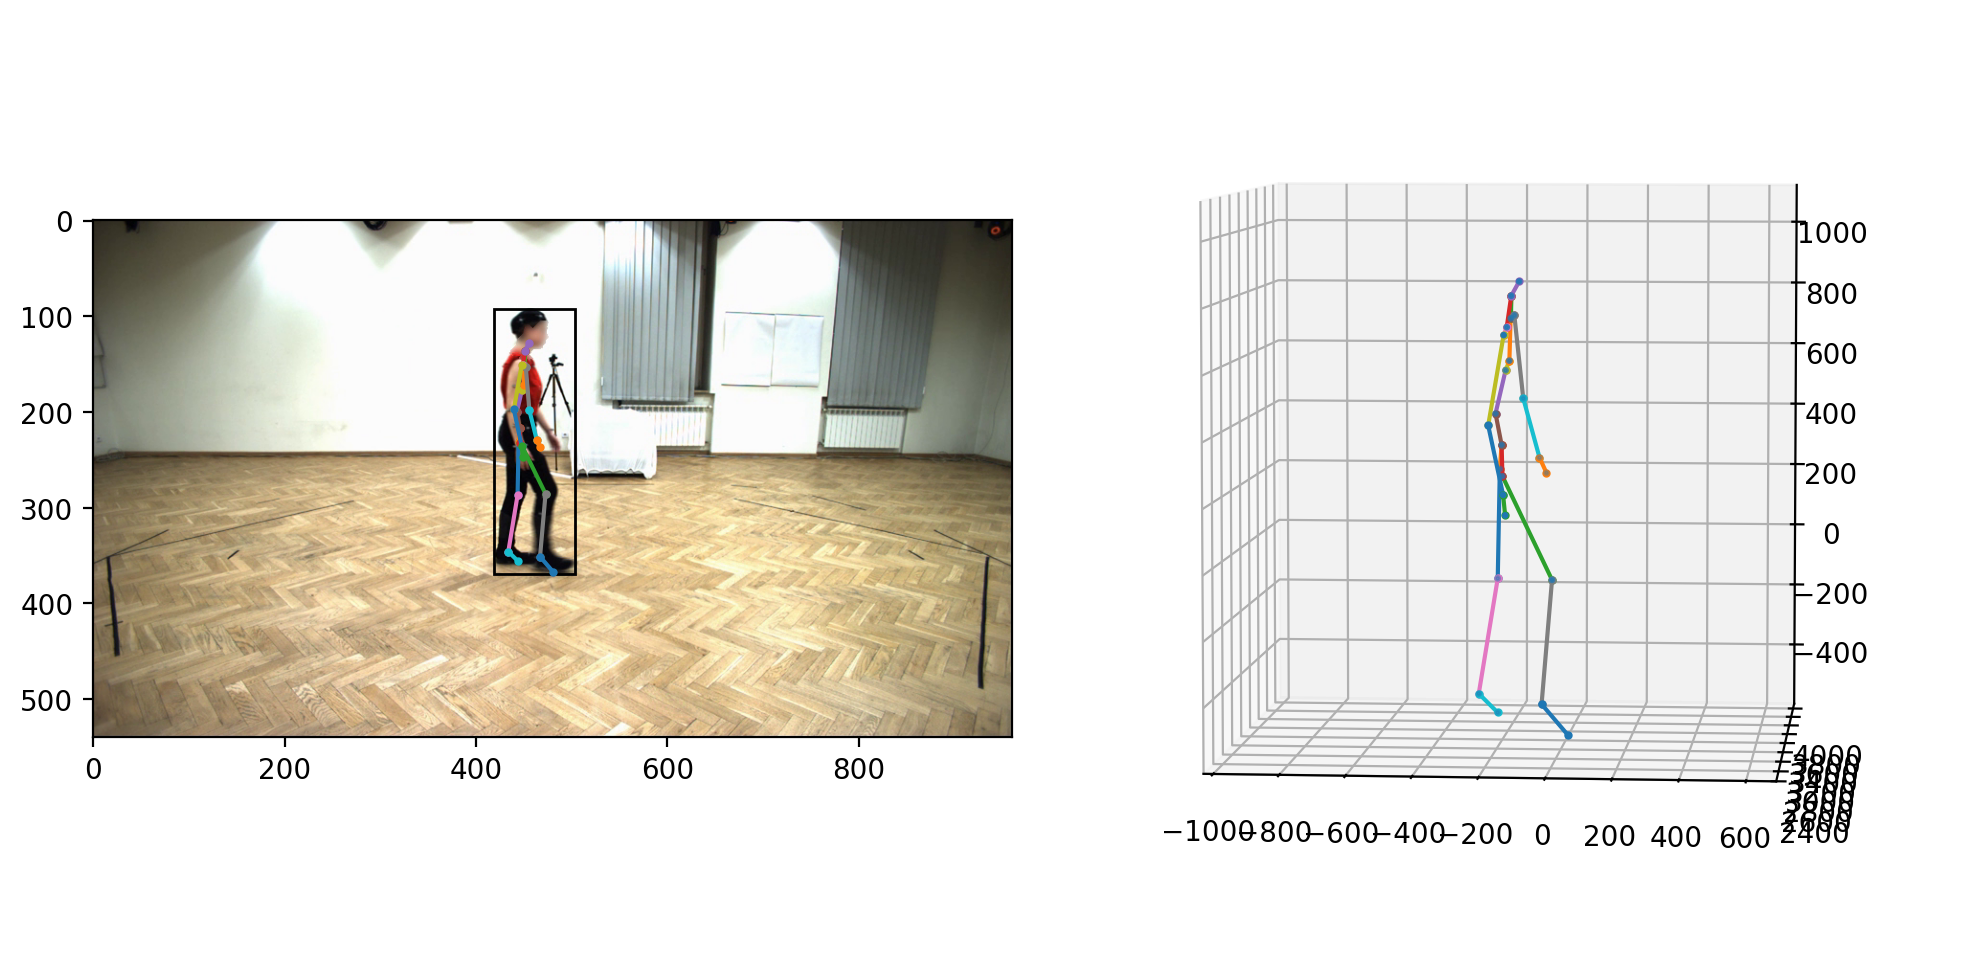
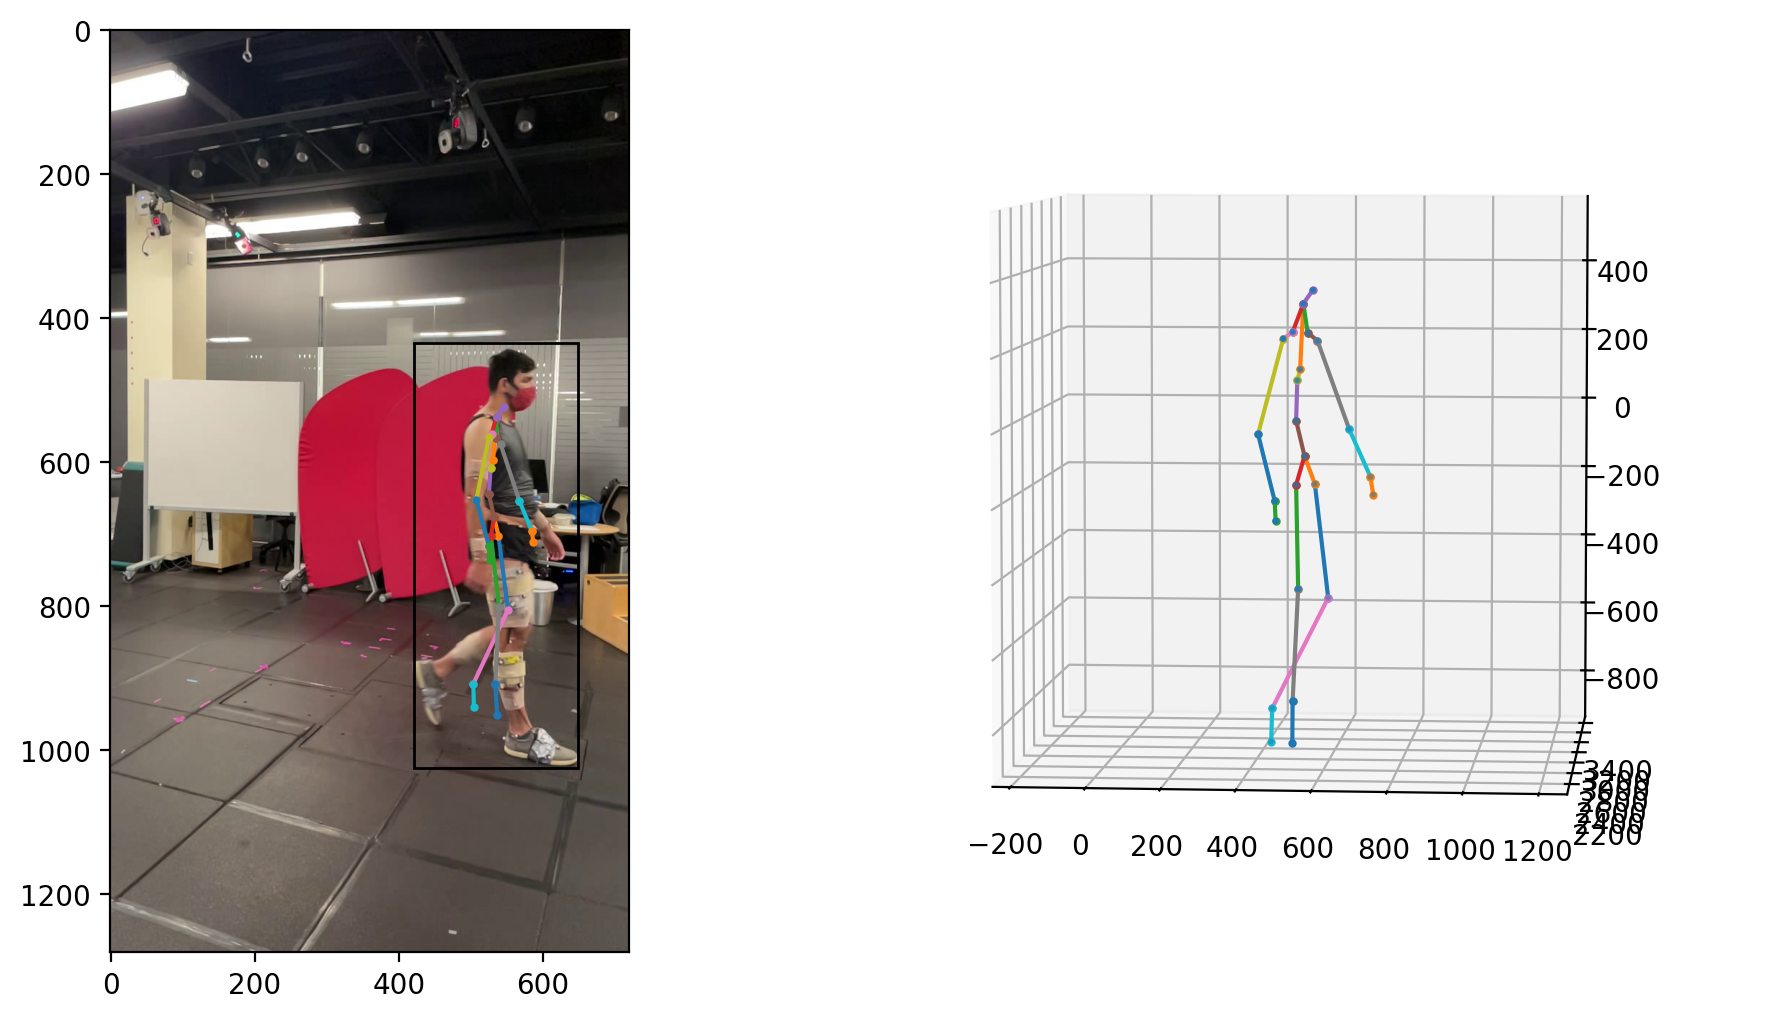
metrabs upgrades

diff --git a/src/visualizations/viz_metrabs.py b/src/visualizations/viz_metrabs.py
@@ -90,59 +90,47 @@ def load_calibration_tsai(xml_path, img_w, img_h):
     T[:3, 3] = t.astype(np.float32)
     return K, dist, T
 
-def load_calibration_pickle(pkl_path, img_w, img_h,
-                            rot_is_world_to_cam=True,
-                            units='mm'):
-    """
-    pkl contains:
-      - 'intrinsicMat': (3,3)
-      - 'distortion'  : (1,5)
-      - 'imageSize'   : (2,1) [width, height]
-      - 'rotation'    : (3,3)
-      - 'translation' : (3,1)
-    Returns K (3x3), dist (5,), T (4x4) in float32.
-    T maps world->camera: X_cam = R * X_world + t
-    Scales K if image size differs from current (img_w,img_h).
-    """
+def load_calibration_pickle(pkl_path,
+                                   img_w, img_h,
+                                   resize_mode="scale",
+                                   rotation_90=None,  # None | 'ccw' | 'cw'
+                                   dist_layout="opencv"  # 'opencv'=[k1,k2,p1,p2,k3], 'k123p12'=[k1,k2,k3,p1,p2]
+                                   ):
     with open(pkl_path, 'rb') as f:
         calib = pickle.load(f)
 
     K0   = np.asarray(calib['intrinsicMat'], dtype=np.float64)
     dist = np.asarray(calib['distortion'],   dtype=np.float64).reshape(-1)
-    size = np.asarray(calib['imageSize'],    dtype=np.float64).reshape(-1)
+    size = np.asarray(calib['imageSize'],    dtype=np.float64).reshape(-1)  # [W0,H0]
     R    = np.asarray(calib['rotation'],     dtype=np.float64)
     t    = np.asarray(calib['translation'],  dtype=np.float64).reshape(3)
 
-    # Units
-    if units.lower().startswith('m'):  # meters -> millimetres
-        t = t * 1000.0
+    # Keep as world->camera (this matches your working XML math)
+    # Camera center if you ever need it:
+    C = -R.T @ t
 
-    # If rotation is cam->world, invert to world->cam
-    if not rot_is_world_to_cam:
-        # X_world = R * X_cam + t  ->  X_cam = R^T X_world - R^T t
-        R = R.T
-        t = -R @ t
-
-    # Scale intrinsics if image size differs
-    # size = [width, height]
+    # Intrinsics adjustment to your current frame size
     W0, H0 = int(round(size[0])), int(round(size[1]))
-    if (W0 != img_w) or (H0 != img_h):
-        sx = img_w / float(W0)
-        sy = img_h / float(H0)
-        K_scaled = np.array([[K0[0,0]*sx, 0.0,        K0[0,2]*sx],
-                             [0.0,        K0[1,1]*sy, K0[1,2]*sy],
-                             [0.0,        0.0,        1.0      ]], dtype=np.float64)
-    else:
-        K_scaled = K0
+    #K = adjust_K_for_resize(K0, (W0,H0), (img_w,img_h), mode=resize_mode)
 
-    # Pack outputs
-    K_out   = K_scaled.astype(np.float32)
-    dist_out= dist.astype(np.float32)
-    T       = np.eye(4, dtype=np.float32)
-    T[:3,:3]= R.astype(np.float32)
-    T[:3, 3]= t.astype(np.float32)
-    return K_out, dist_out, T
+    # Optional 90° rotation handling (if your runtime frames are rotated)
+    #if rotation_90 in ("ccw","cw"):
+    #    K, (img_w,img_h) = rotate_K_90(K, (img_w,img_h), rotation_90)
+        # Note: R and t are in world/cam coordinates; if you physically rotate the image only,
+        # do NOT change R,t. If you actually rotated the camera’s axes in the real world,
+        # that’s a different transform.
 
+    # Distortion ordering if your downstream expects k1,k2,k3,p1,p2
+    if dist_layout == "k123p12" and dist.size >= 5:
+        k1,k2,p1,p2,k3 = dist[:5]
+        dist = np.array([k1,k2,k3,p1,p2] + list(dist[5:]), dtype=np.float64)
+
+    # Build T (world->camera)
+    T = np.eye(4, dtype=np.float32)
+    T[:3,:3] = R.astype(np.float32)
+    T[:3, 3] = t.astype(np.float32)
+
+    return K0.astype(np.float32), dist.astype(np.float32), T
 
 def download_model(model_type: str) -> str:
     server_prefix = 'https://omnomnom.vision.rwth-aachen.de/data/metrabs'
@@ -173,6 +161,13 @@ def download_model(model_type: str) -> str:
         raise RuntimeError("Model extraction failed (saved_model.pb missing).")
     return str(out_dir)
 
+def to_np(x, dtype=np.float64):
+    if x is None:
+        return None
+    if tf.is_tensor(x):
+        return x.numpy().astype(dtype, copy=False)
+    return np.asarray(x, dtype=dtype)
+
 def main():
     ap = argparse.ArgumentParser()
     ap.add_argument("-m", "--manifest", required=True, help="Path to manifest.yaml")
@@ -196,11 +191,6 @@ def main():
     
 
     args = ap.parse_args()
-
-    first_img = None
-    first_boxes = None
-    first_p3d = None
-    first_p2d = None
 
     skeleton = args.skeleton
     log_step("Loading and resolving manifest")
@@ -255,9 +245,7 @@ def main():
     if args.calib_pickle:
         K_np, dist_np, T_np = load_calibration_pickle(
             Path(calib),
-            img_w=W, img_h=H,
-            rot_is_world_to_cam=not args.pkl_rot_cam2world,
-            units=('m' if args.pkl_units_m else 'mm')
+            img_w=W, img_h=H
         )
     else:
         K_np, dist_np, T_np = load_calibration_tsai(Path(calib), img_w=W, img_h=H)
@@ -278,7 +266,7 @@ def main():
     edges_np = np.asarray(model.per_skeleton_joint_edges[skeleton].numpy())
     edges_np = edges_np.astype(np.int64)
 
-    camera = cameravision.Camera(intrinsic_matrix=K, world_up=(0, 1, 0))
+    camera = cameravision.Camera(intrinsic_matrix=K, world_up=(0, 1, 0), extrinsic_matrix=T_np)
 
     # Accept both (N,2) and (2,N)
     if edges_np.ndim == 2 and edges_np.shape[0] == 2 and edges_np.shape[1] != 2:
@@ -293,19 +281,21 @@ def main():
     out_path = Path("./random_outputs/viz.mp4")
     out_path.parent.mkdir(parents=True, exist_ok=True)
 
-    with poseviz.PoseViz(joint_names=joint_names, joint_edges=joint_edges, camera_type="free", viz_fps=25) as viz:
-        viz.new_sequence_output(str(out_path), fps=25)
+    with poseviz.PoseViz(joint_names=joint_names, joint_edges=joint_edges, camera_type="free", viz_fps=fps) as viz:
+        viz.new_sequence_output(str(out_path), fps=fps)
         for fi in range(num_frames):
             ok, frame_bgr = cap.read()
+            if not ok or frame_bgr is None:
+                break
             frame_rgb = cv2.cvtColor(frame_bgr, cv2.COLOR_BGR2RGB)
             image_tf = tf.convert_to_tensor(frame_rgb, dtype=tf.uint8)
             log_info(f"Prediction for frame {fi}")
             pred = model.detect_poses(
                 image_tf, skeleton=skeleton,
-                #default_fov_degrees = 90,
+                #default_fov_degrees = 70,
                 intrinsic_matrix=K,
                 distortion_coeffs=dist,
-                #extrinsic_matrix=T,
+                extrinsic_matrix=T,
                 suppress_implausible_poses=False
             )
 
@@ -315,7 +305,7 @@ def main():
 
             log_info(f"Viz for frame {fi}")
             viz.update(frame=image_tf, boxes=boxes, poses=p3d, camera=camera)
-            #time.sleep(1000)
+            #time.sleep(5)
 
 if __name__ == "__main__":
     # make TF not pre-allocate all VRAM

diff --git a/src/pose/metrabs_pose_estimation.py b/src/pose/metrabs_pose_estimation.py
@@ -219,58 +219,47 @@ def load_calibration_tsai(xml_path, img_w, img_h):
     T[:3, 3] = t.astype(np.float32)
     return K, dist, T
 
-def load_calibration_pickle(pkl_path, img_w, img_h,
-                            rot_is_world_to_cam=True,
-                            units='mm'):
-    """
-    pkl contains:
-      - 'intrinsicMat': (3,3)
-      - 'distortion'  : (1,5)
-      - 'imageSize'   : (2,1) [width, height]
-      - 'rotation'    : (3,3)
-      - 'translation' : (3,1)
-    Returns K (3x3), dist (5,), T (4x4) in float32.
-    T maps world->camera: X_cam = R * X_world + t
-    Scales K if image size differs from current (img_w,img_h).
-    """
+def load_calibration_pickle(pkl_path,
+                                   img_w, img_h,
+                                   resize_mode="scale",
+                                   rotation_90=None,  # None | 'ccw' | 'cw'
+                                   dist_layout="opencv"  # 'opencv'=[k1,k2,p1,p2,k3], 'k123p12'=[k1,k2,k3,p1,p2]
+                                   ):
     with open(pkl_path, 'rb') as f:
         calib = pickle.load(f)
 
     K0   = np.asarray(calib['intrinsicMat'], dtype=np.float64)
     dist = np.asarray(calib['distortion'],   dtype=np.float64).reshape(-1)
-    size = np.asarray(calib['imageSize'],    dtype=np.float64).reshape(-1)
+    size = np.asarray(calib['imageSize'],    dtype=np.float64).reshape(-1)  # [W0,H0]
     R    = np.asarray(calib['rotation'],     dtype=np.float64)
     t    = np.asarray(calib['translation'],  dtype=np.float64).reshape(3)
 
-    # Units
-    if units.lower().startswith('m'):  # meters -> millimetres
-        t = t * 1000.0
+    # Keep as world->camera (this matches your working XML math)
+    # Camera center if you ever need it:
+    C = -R.T @ t
 
-    # If rotation is cam->world, invert to world->cam
-    if not rot_is_world_to_cam:
-        # X_world = R * X_cam + t  ->  X_cam = R^T X_world - R^T t
-        R = R.T
-        t = -R @ t
-
-    # Scale intrinsics if image size differs
-    # size = [width, height]
+    # Intrinsics adjustment to your current frame size
     W0, H0 = int(round(size[0])), int(round(size[1]))
-    if (W0 != img_w) or (H0 != img_h):
-        sx = img_w / float(W0)
-        sy = img_h / float(H0)
-        K_scaled = np.array([[K0[0,0]*sx, 0.0,        K0[0,2]*sx],
-                             [0.0,        K0[1,1]*sy, K0[1,2]*sy],
-                             [0.0,        0.0,        1.0      ]], dtype=np.float64)
-    else:
-        K_scaled = K0
+    #K = adjust_K_for_resize(K0, (W0,H0), (img_w,img_h), mode=resize_mode)
 
-    # Pack outputs
-    K_out   = K_scaled.astype(np.float32)
-    dist_out= dist.astype(np.float32)
-    T       = np.eye(4, dtype=np.float32)
-    T[:3,:3]= R.astype(np.float32)
-    T[:3, 3]= t.astype(np.float32)
-    return K_out, dist_out, T
+    # Optional 90° rotation handling (if your runtime frames are rotated)
+    #if rotation_90 in ("ccw","cw"):
+    #    K, (img_w,img_h) = rotate_K_90(K, (img_w,img_h), rotation_90)
+        # Note: R and t are in world/cam coordinates; if you physically rotate the image only,
+        # do NOT change R,t. If you actually rotated the camera’s axes in the real world,
+        # that’s a different transform.
+
+    # Distortion ordering if your downstream expects k1,k2,k3,p1,p2
+    if dist_layout == "k123p12" and dist.size >= 5:
+        k1,k2,p1,p2,k3 = dist[:5]
+        dist = np.array([k1,k2,k3,p1,p2] + list(dist[5:]), dtype=np.float64)
+
+    # Build T (world->camera)
+    T = np.eye(4, dtype=np.float32)
+    T[:3,:3] = R.astype(np.float32)
+    T[:3, 3] = t.astype(np.float32)
+
+    return K0.astype(np.float32), dist.astype(np.float32), T
 
 def visualize(image, detections, poses3d, poses2d, edges, save_to=None,
               use_extrinsics=False, R=None, t=None):
@@ -476,9 +465,7 @@ def main():
     if args.calib_pickle:
         K_np, dist_np, T_np = load_calibration_pickle(
             Path(calib),
-            img_w=W, img_h=H,
-            rot_is_world_to_cam=not args.pkl_rot_cam2world,
-            units=('m' if args.pkl_units_m else 'mm')
+            img_w=W, img_h=H
         )
     else:
         K_np, dist_np, T_np = load_calibration_tsai(Path(calib), img_w=W, img_h=H)
@@ -566,6 +553,7 @@ def main():
             intrinsic_matrix=K,
             distortion_coeffs=dist,
             extrinsic_matrix=T,
+            world_up_vector=(0, 1, 0),
             suppress_implausible_poses=False
         )
 

diff --git a/scripts/run_pipeline_metrabs.py b/scripts/run_pipeline_metrabs.py
@@ -1,0 +1,58 @@
+#!/usr/bin/env python3
+"""
+run_pipeline.py
+
+Runs the requested CLI steps sequentially, stopping on the first failure.
+
+By default, it will auto-fix a common typo in your commands: if a --manifest/-m
+path ends with ".yam" and that file does not exist, but a ".yaml" file at the
+same path DOES exist, it will substitute ".yaml" automatically.
+
+Usage:
+    python run_pipeline.py
+    python run_pipeline.py --no-auto-fix
+
+Tip: Run this script from the project repo root so all relative paths resolve.
+"""
+
+import argparse
+import os
+import shlex
+import subprocess
+import sys
+import time
+from typing import List
+
+def run_step(cmd: str, *, cwd: str = None) -> None:
+    """Run a single command, print timing, and stop on failure."""
+    tokens = shlex.split(cmd)
+    printable = " ".join(tokens)
+    print(f"\n=== Running: {printable}")
+    start = time.time()
+    proc = subprocess.run(tokens, cwd=cwd)
+    dur = time.time() - start
+    print(f"=== Finished (exit={proc.returncode}) in {dur:.1f}s")
+    if proc.returncode != 0:
+        raise SystemExit(proc.returncode)
+
+def main():
+    MANIFEST = "./manifests/GPJATK/subject7.yaml"
+    CONFIG = "./config/paths.yaml"
+    TRIAL = "walking1"
+    SUBJECT_H = 1700
+
+    # Commands as provided (kept verbatim on purpose).
+    steps = [
+        f"python src/pose/metrabs_pose_estimation.py  -m {MANIFEST} -p {CONFIG} --trial {TRIAL} --video-field video_sync",
+
+        f"python src/validation/validate_rtmw3d_vs_mocap_gpjatk.py -m {MANIFEST} -p {CONFIG} --trial {TRIAL} --root-center pelvis --summary-per-joint --procrustes similarity --resample-to mocap --out-json --metrabs --hnorm --subject-height-mm {SUBJECT_H}"
+    ]
+
+    print("Pipeline starting...")
+    for i, s in enumerate(steps, 1):
+        print(f"\n--- Step {i}/{len(steps)} ---")
+        run_step(s)
+    print("\n✅ Pipeline finished successfully.")
+
+if __name__ == "__main__":
+    main()

diff --git a/src/OpenSim/open_sim_scaling.py b/src/OpenSim/open_sim_scaling.py
@@ -362,8 +362,8 @@ def main():
 
     # Get time range.
     try:
-        thresholdPosition = 0.003
-        maxThreshold = 0.015
+        thresholdPosition = 0.005
+        maxThreshold = 0.030
         increment = 0.001
         success = False
         while thresholdPosition <= maxThreshold and not success:
